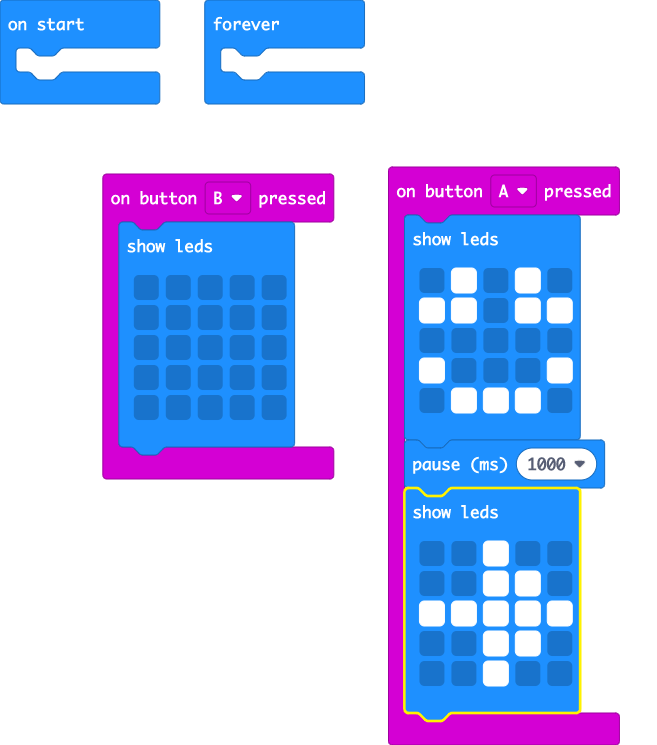
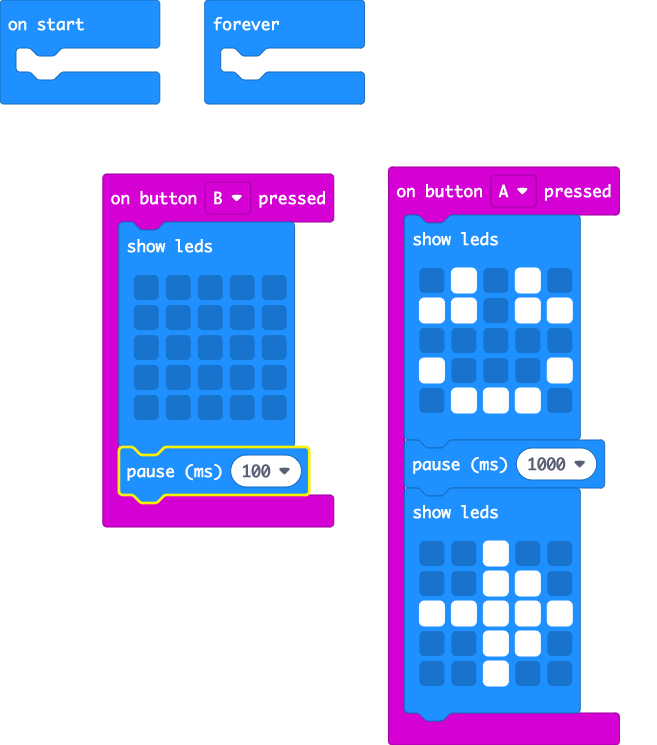
Update main.blocks, main.ts

diff --git a/main.ts b/main.ts
@@ -23,6 +23,7 @@ input.onButtonPressed(Button.B, function () {
         . . . . .
         . . . . .
         `)
+    basic.pause(100)
 })
 basic.forever(function () {
 	
